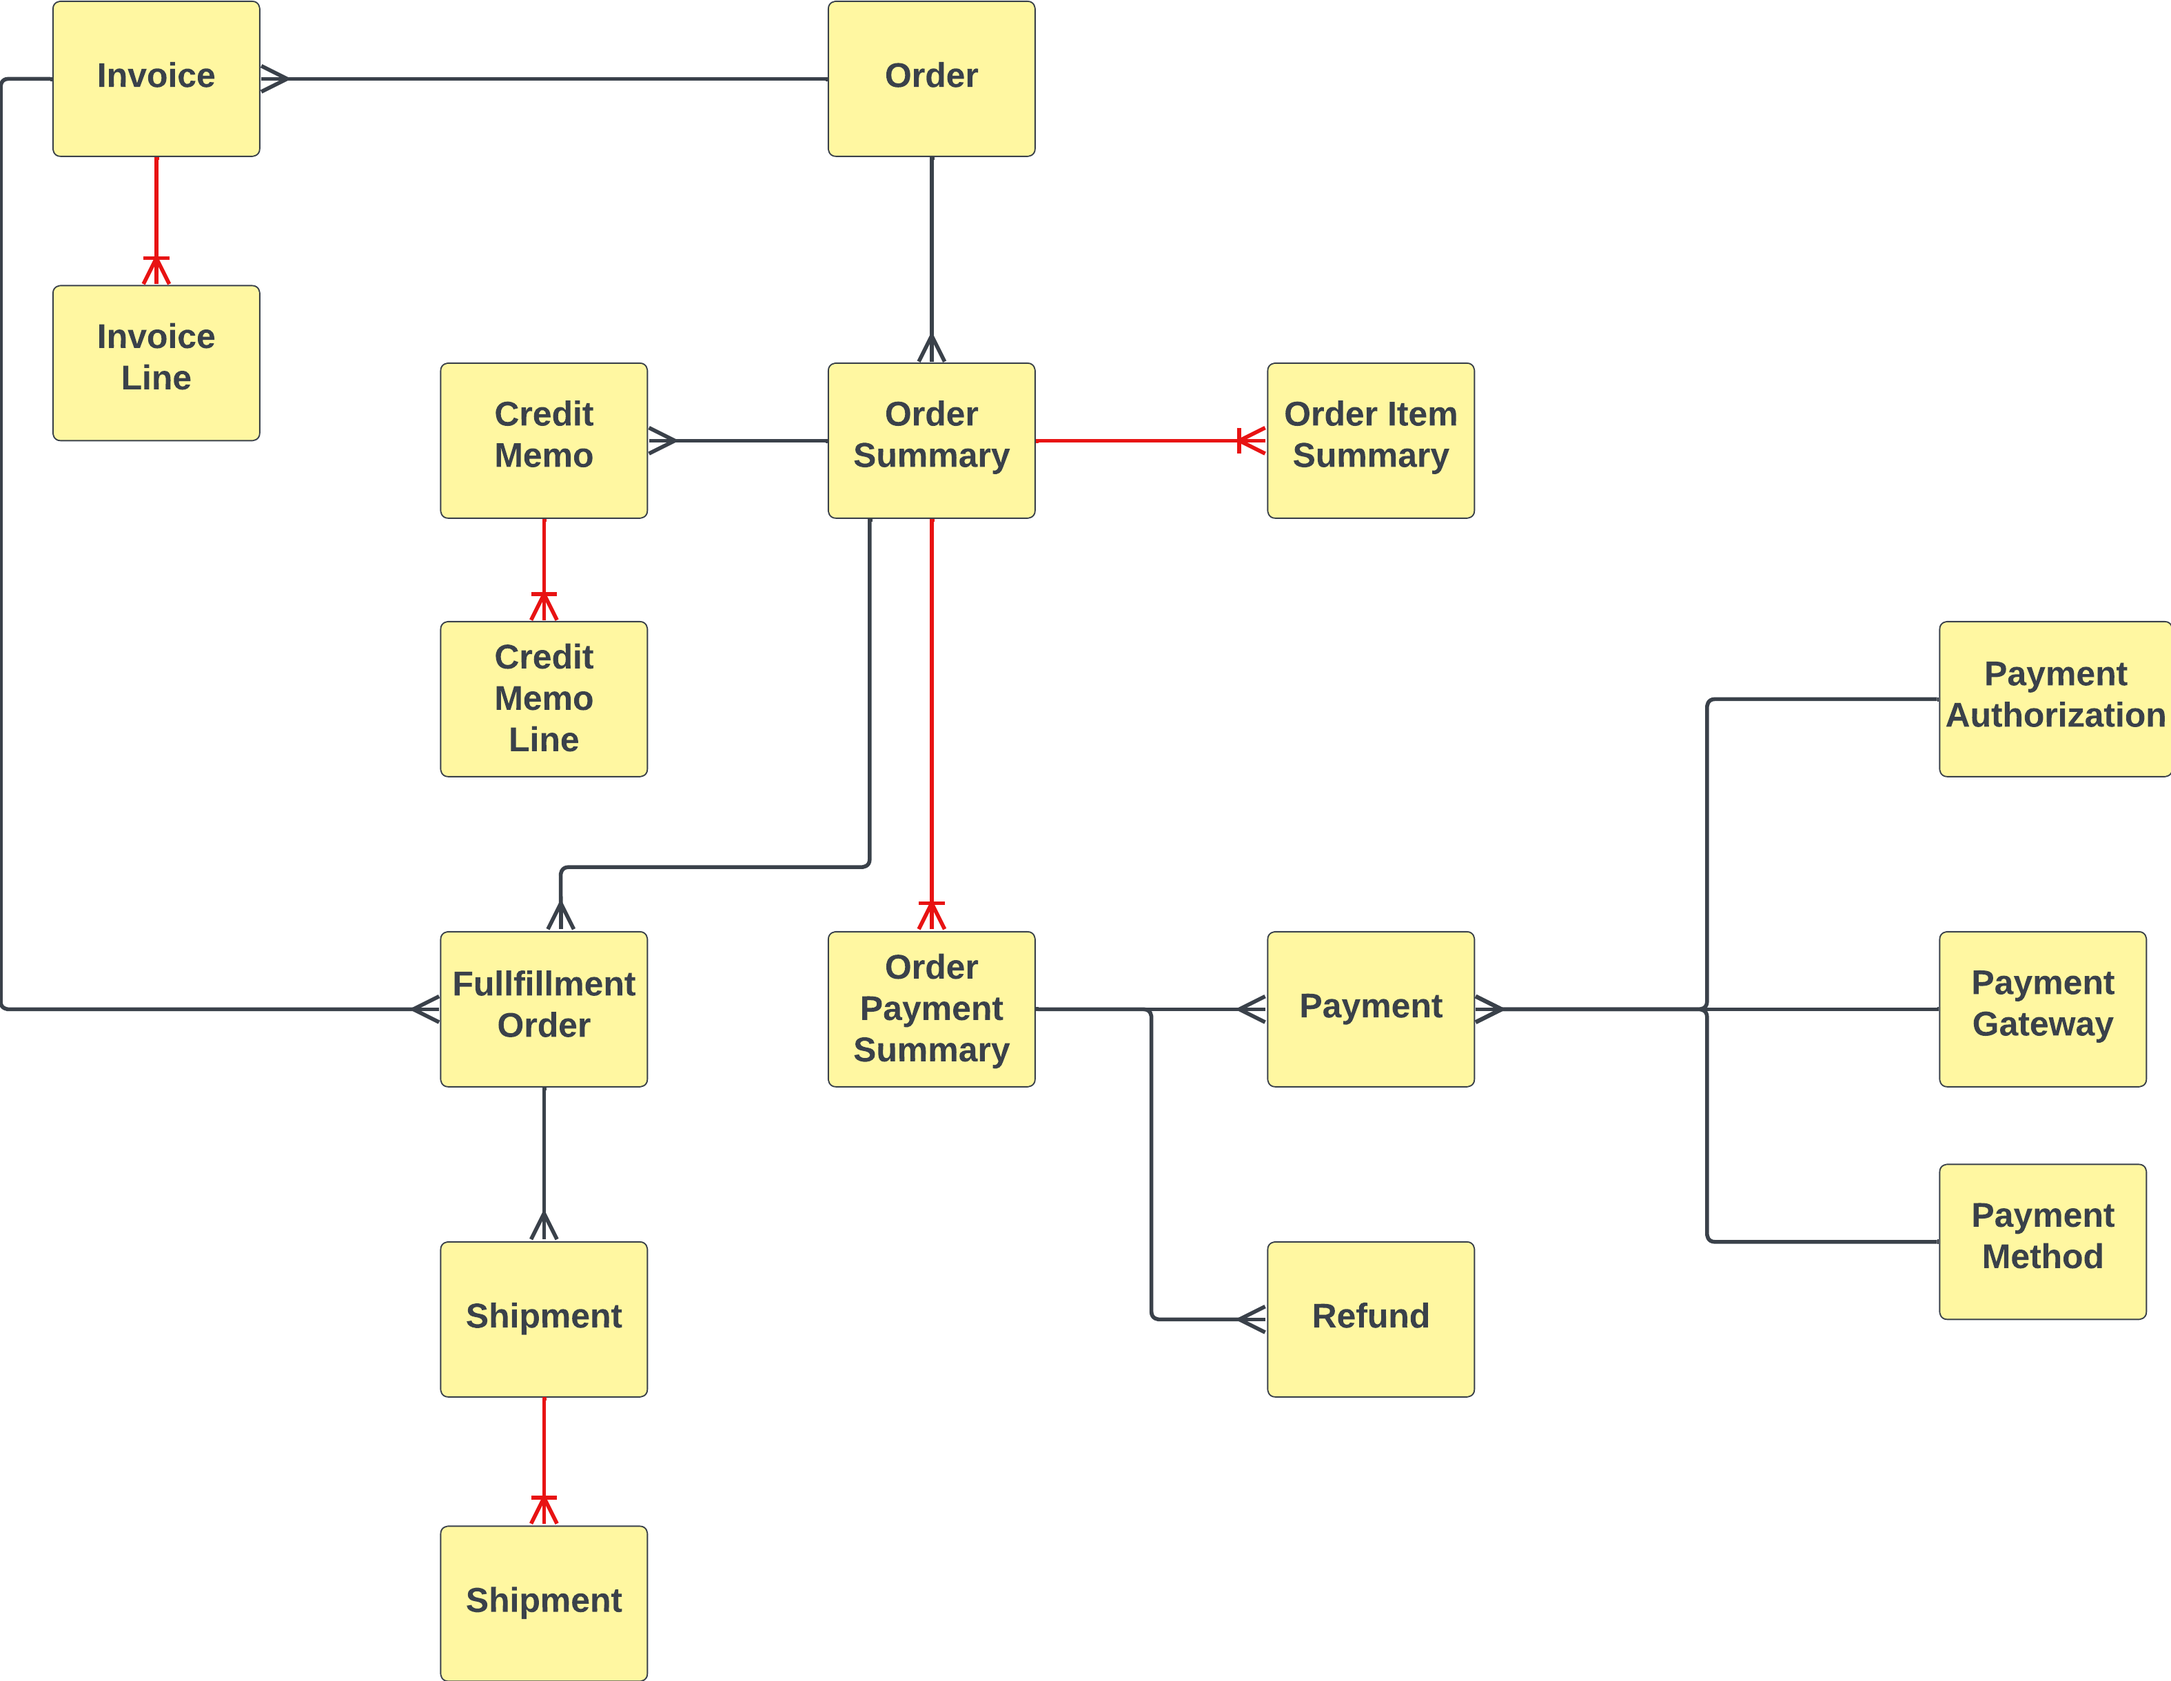
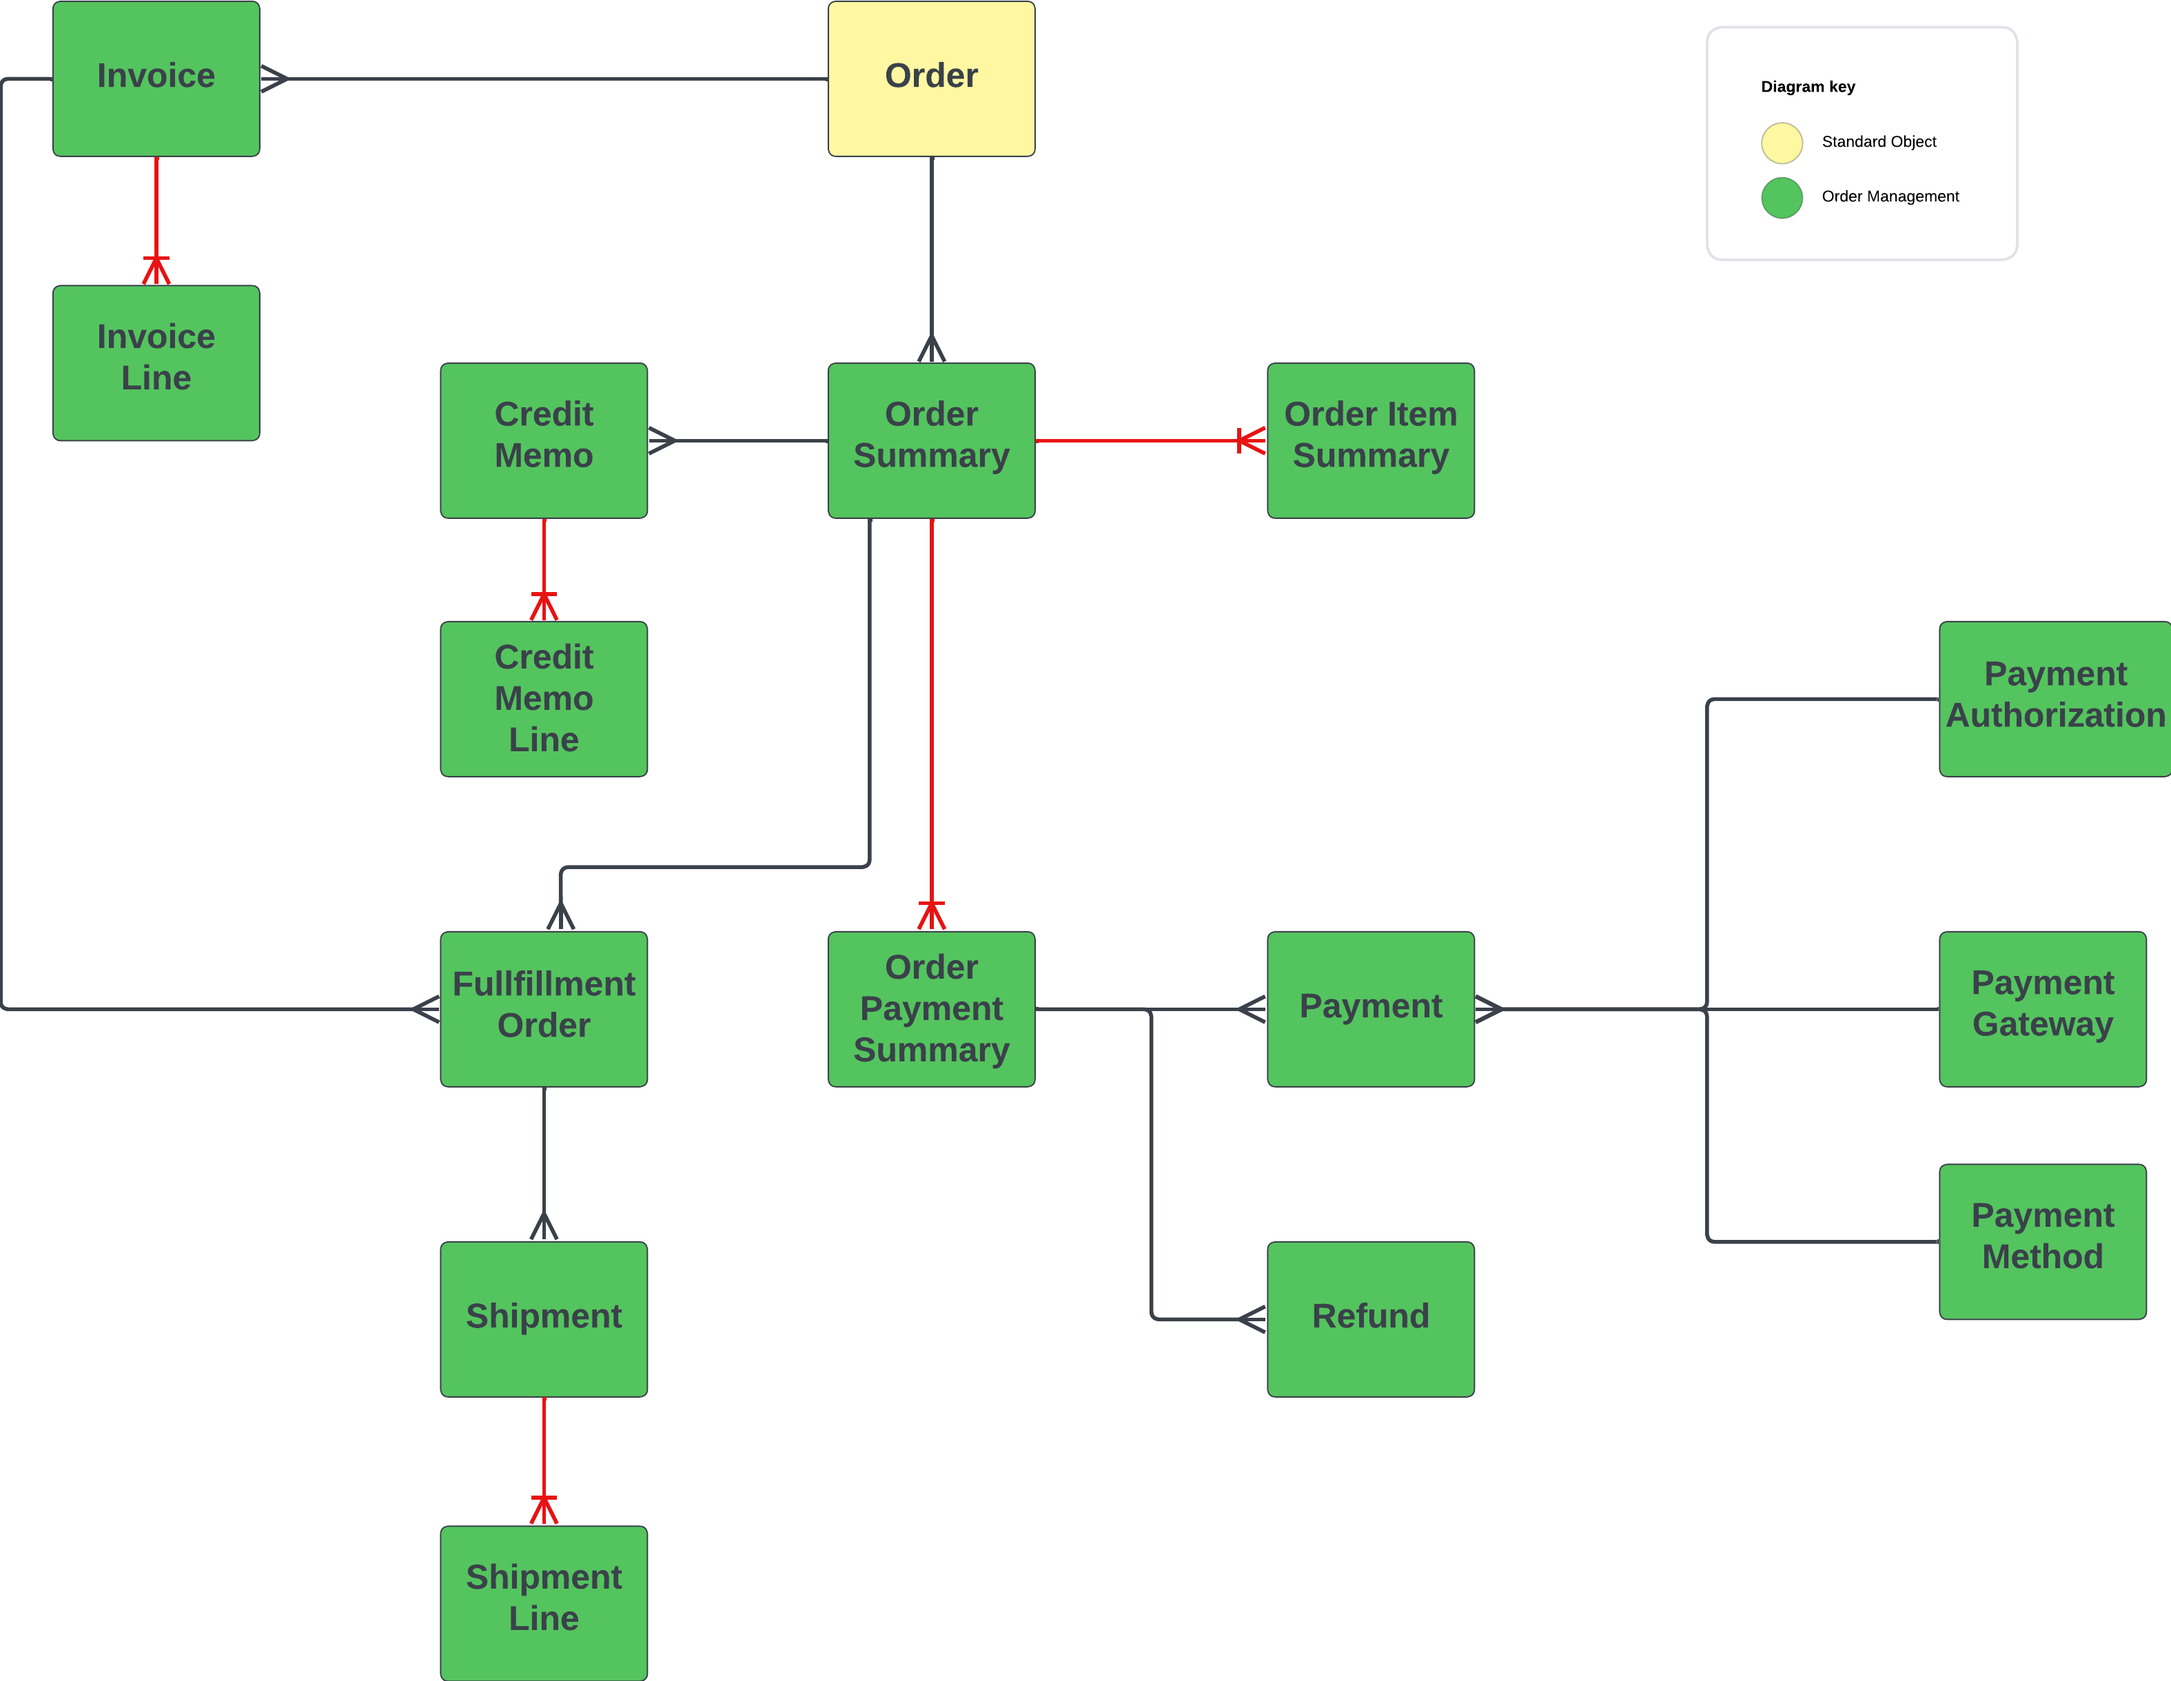
Update images and documentation

diff --git a/Documentation/Product & Clouds/addOn_CPQ.md b/Documentation/Product & Clouds/addOn_CPQ.md
@@ -2,6 +2,13 @@
 Package that help enabling advanced quoting and build customisable solution.
 ## Licenses
 
+The licensing model is based on `permission set license`.\
+When a permission set is assignd to the user, the permission set license is consummed.
+
+For External users, there is extra licenses:
+- `CPQ for Customer Community`
+- `CPQ for Partner Community`
+
 |Features | `CPQ` | `CPQ+` | CPQ & Billing Growth | CPQ+ with Billing|
 |--|--|--|--|--|
 |Configuration, Pricing, and Quoting | ✅|✅|✅|✅
@@ -12,12 +19,8 @@ Package that help enabling advanced quoting and build customisable solution.
 |Complex Revenue Reporting |❌|❌|❌|✅
 |Automated Payments and Allocations |❌|❌|❌|✅
 
-For External users, there is extra licenses:
-- `CPQ for Customer Community`
-- `CPQ for Partner Community`
 
-The licensing model is based on `permission set license`.\
-When a permission set is assignd to the user, the permission set license is consummed.
+
 ## Data Model
 ### Product Bundle
 ![Product Bundle](../../Images/CTA%20-%20Diagrams%20-%20CPQ%20-%20Product.png)

diff --git a/Documentation/Product & Clouds/CommerceCloud.md b/Documentation/Product & Clouds/CommerceCloud.md
@@ -1,0 +1,18 @@
+# Commerce Cloud
+Commerce Cloud help solving `B2C`and `B2B` business cases. It's also providing digital `Store Front` to sale online.
+
+## Licenses
+Salesforce Commerce Cloud is provided via a global license based on the "Income". (No User license). It's the same for B2C or B2B solutions.
+
+### External Users Licenses
+For buyer users, a `Customer Community` license gives users the minimum access to use B2B Commerce features.\
+For buyer managers or buyers who need access to other buyers, a `Customer Community Plus or higher` license is required to access other buyers, role-based sharing, reports, and other objects beyond B2B Commerce objects.
+
+## Data Model for B2B and B2C
+![Data Model](../../Images/CTA%20-%20Diagrams%20-%20CC%20-%20B2B%20&%20B2C.png)
+
+## Differents Types
+Commerce cloud inlude differents type of businesses : 
+- B2C
+- B2B
+- D2C

diff --git a/Documentation/Product & Clouds/Knowledge.md b/Documentation/Product & Clouds/Knowledge.md
@@ -9,7 +9,8 @@ Give website visitors, customers, partners, and service agents the ultimate supp
 To do more than read articles, agents need the `Knowledge User` license
  
 ## Data Model
-![Data Model](../../Images/LightningKnowledge-1.png)
+Be aware that it's not possible to create custom lookups linked to Articles
+![Data Model](../../Images/CTA%20-%20Diagrams%20-%20Knowledge.png)
 
 ## Approval Processes
 Similar to other Salesforce objects, you can establish an approval process for articles, which is particularly useful for content control, especially in a public knowledge base where you need to review customer-facing articles.\

diff --git a/Documentation/Product & Clouds/addOn_OrderManagement.md b/Documentation/Product & Clouds/addOn_OrderManagement.md
@@ -9,7 +9,9 @@ With the Order Management app:
 
 # Documentation
 
-## Licensing
+## Licenses
+Salesforce Order Management is provided via a global license based on the "Income". (No User license)
+
 |Features | Order Management - `Order Visibility` | Order Management - `Growth`
 |--|--|--|
 |Complete Lifecycle Management| ❌ |✅

diff --git a/Documentation/Product & Clouds/SalesCloud.md b/Documentation/Product & Clouds/SalesCloud.md
@@ -50,7 +50,7 @@
 
 ## Data Model
 ### Sales process
-![Data Model](/Images/salesCloud-datamodel-2.png)
+![Data Model](/Images//CTA%20-%20Diagrams%20-%20Sales%20Cloud%20-%20Sales.png)
 
 ### Campaign & Marketing
 ![Data Model](/Images//CTA%20-%20Diagrams%20-%20Sales%20Cloud%20-%20Campaign.png)

diff --git a/Documentation/Product & Clouds/ServiceCloud.md b/Documentation/Product & Clouds/ServiceCloud.md
@@ -41,7 +41,7 @@
 
 ## Data Model
 ### Overview
-![Data Model](/Images/serviceCloud-datamodel-2.png)
+![Data Model](/Images/CTA%20-%20Diagrams%20-%20Service%20Cloud.png)
 
 ## Routing
 ### Omnichannel
